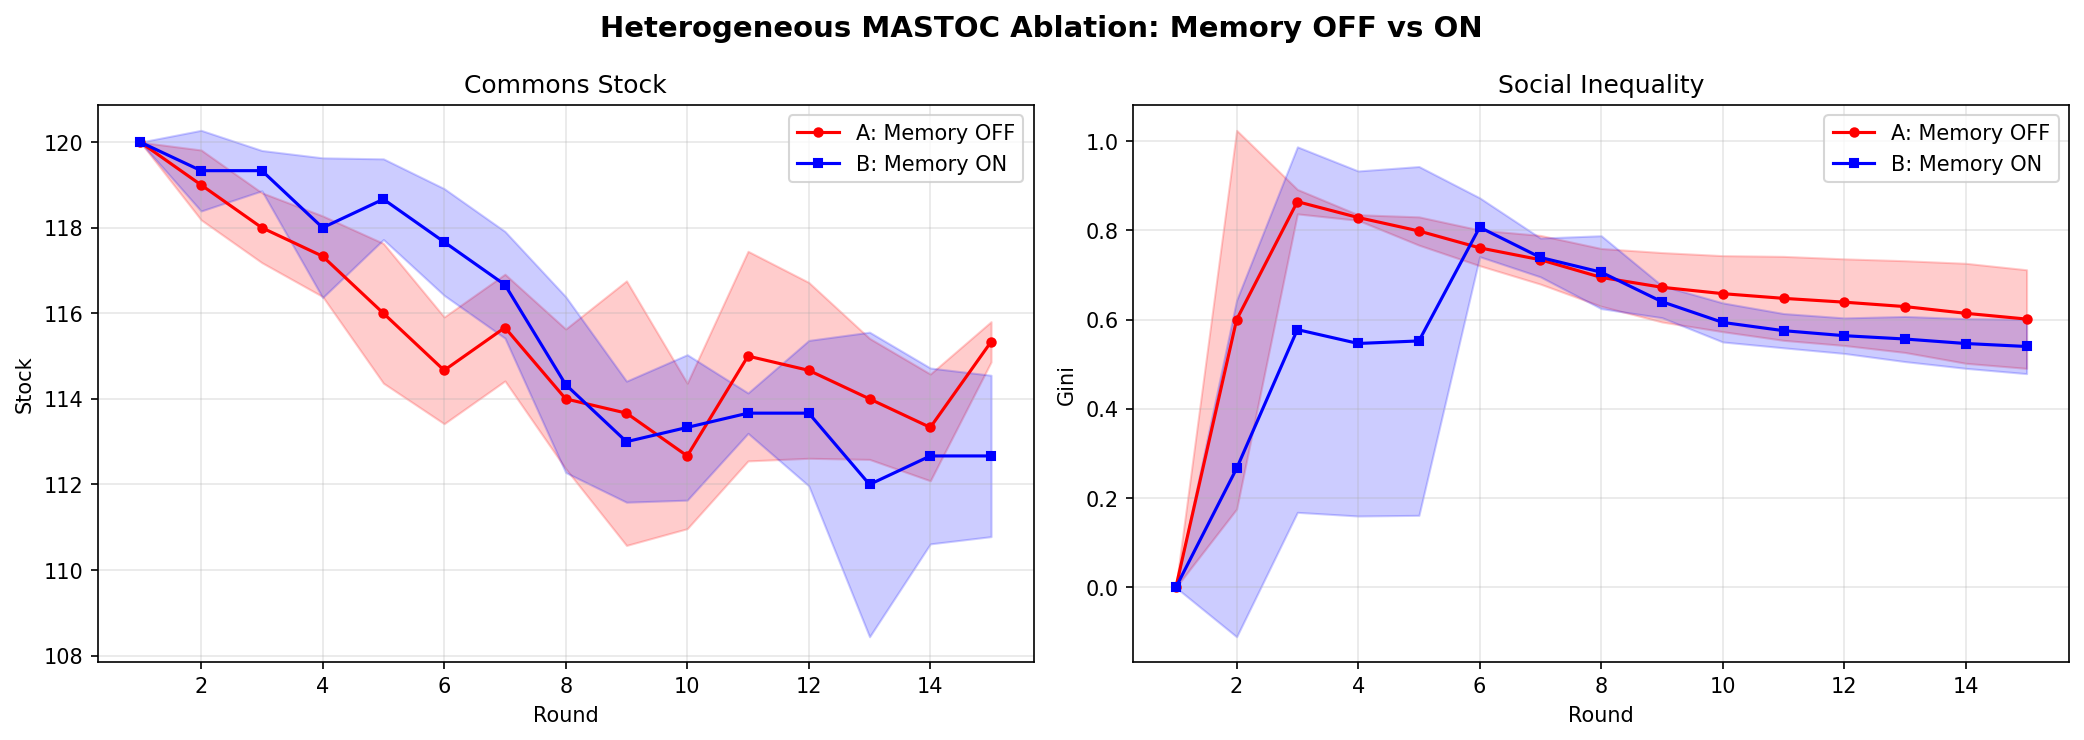
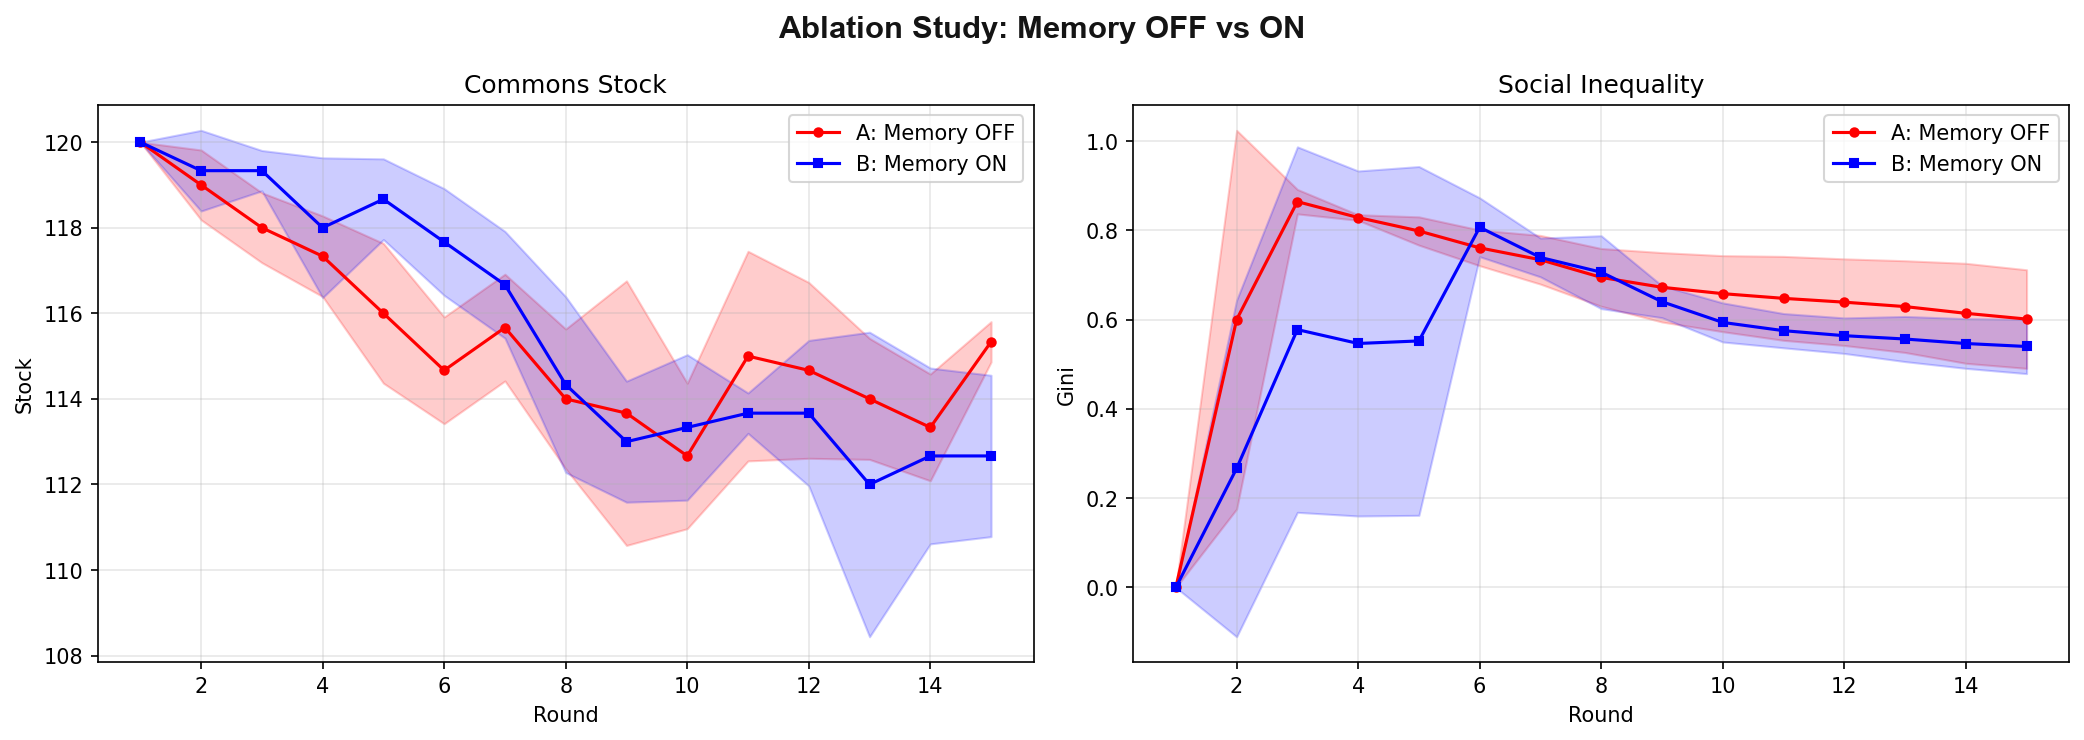
commit

Changed region(s): [[0.2807, 0.0, 0.7174, 0.0622]]

diff --git a/blog/index.html b/blog/index.html
@@ -69,7 +69,13 @@
             </span>
             <span>Paper</span>
           </span>
-          <span class="action-pill is-disabled" aria-disabled="true" title="Add GitHub URL when ready">
+          <a
+            class="action-pill"
+            href="https://github.com/smaswin21/simulations-project"
+            target="_blank"
+            rel="noopener"
+            title="View source code on GitHub"
+          >
             <span class="action-icon" aria-hidden="true">
               <svg viewBox="0 0 24 24" focusable="false">
                 <path
@@ -79,7 +85,7 @@
               </svg>
             </span>
             <span>Code</span>
-          </span>
+          </a>
           <span class="action-pill is-disabled" aria-disabled="true" title="Add arXiv URL when ready">
             <span class="action-icon" aria-hidden="true">
               <svg viewBox="0 0 24 24" focusable="false">

diff --git a/scripts/plot_ablation.py b/scripts/plot_ablation.py
@@ -64,7 +64,7 @@ def main(output_path: str | None = None, tag: str = ""):
     fig, axes = plt.subplots(1, 2, figsize=(14, 5), squeeze=False)
     _plot_series(axes[0, 0], runs_a, runs_b, "resource_stock_over_time", "Commons Stock", "Stock")
     _plot_series(axes[0, 1], runs_a, runs_b, "gini_over_time", "Social Inequality", "Gini")
-    plt.suptitle("Heterogeneous MASTOC Ablation: Memory OFF vs ON", fontsize=14, fontweight="bold")
+    plt.suptitle("Ablation Study: Memory OFF vs ON", fontsize=14, fontweight="bold")
     plt.tight_layout()
 
     if output_path:
